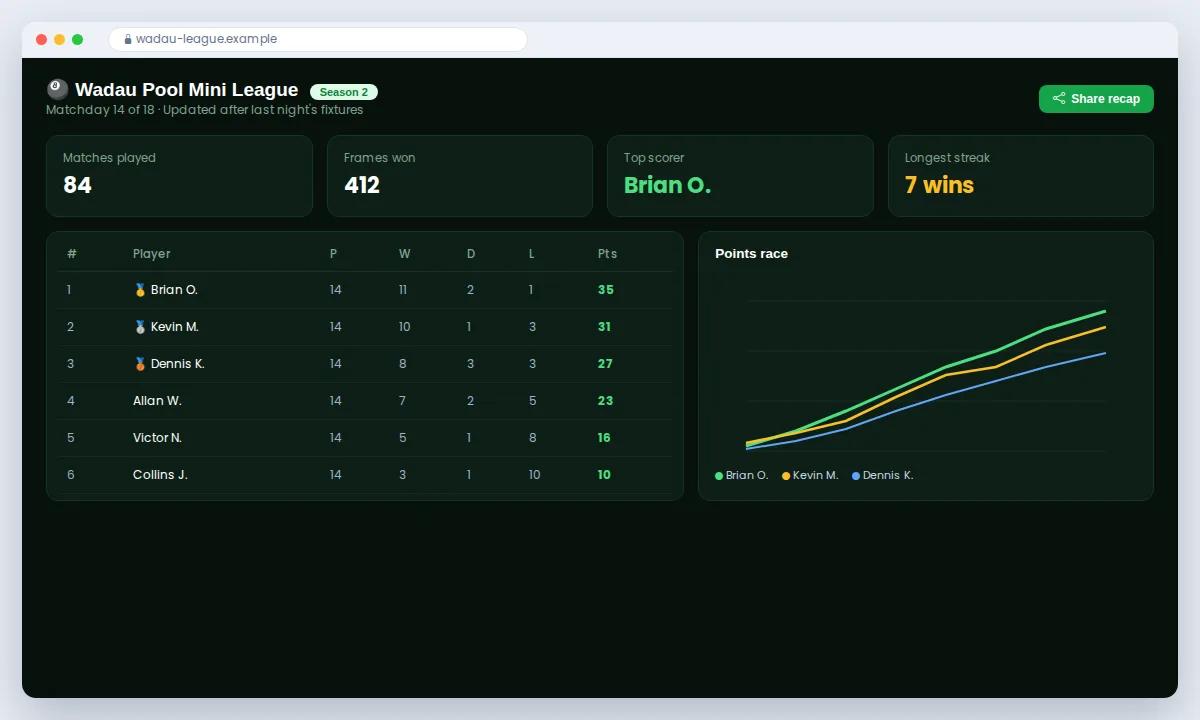
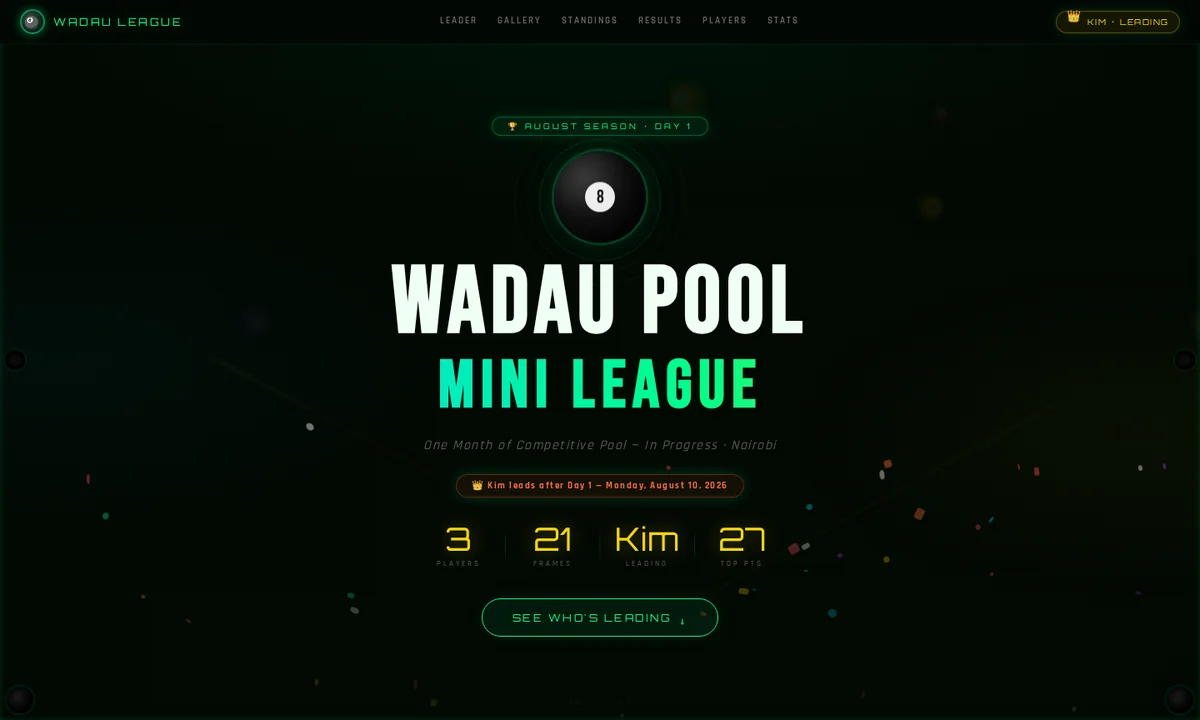
Add files via upload

diff --git a/index.html b/index.html
@@ -497,7 +497,7 @@ html[data-theme="dark"] .main .section:not(.hero){animation:gridPan 40s linear i
             </div>
             <div class="col-lg-4 col-md-6 portfolio-item isotope-item filter-web">
               <div class="proj-card h-100">
-                <div class="proj-media" data-project="wadau"><img src="project-wadau.webp" alt="Pool league standings dashboard (demo data)" width="1200" height="720" loading="lazy" decoding="async"></div>
+                <div class="proj-media" data-project="wadau"><img src="project-wadau.webp" alt="Wadau Pool Mini League live website" width="1200" height="720" loading="lazy" decoding="async"></div>
                 <h4>Wadau Pool Mini League</h4>
                 <div class="proj-stack">Next.js · Chart.js · Vercel</div>
                 <p>Public tournament site with standings, match history, season timeline, MVP cards and shareable recaps.</p>
